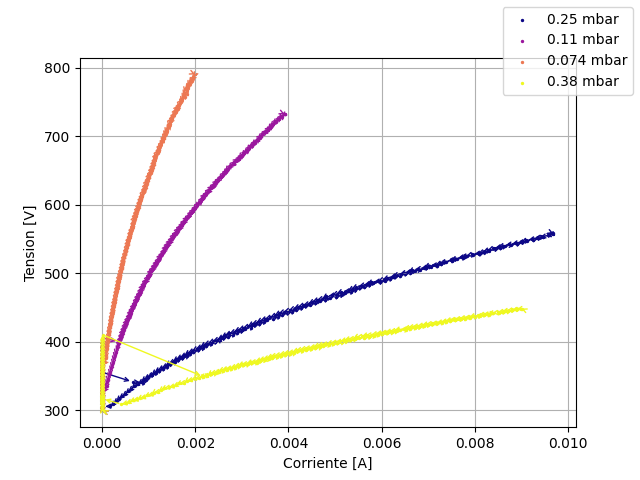
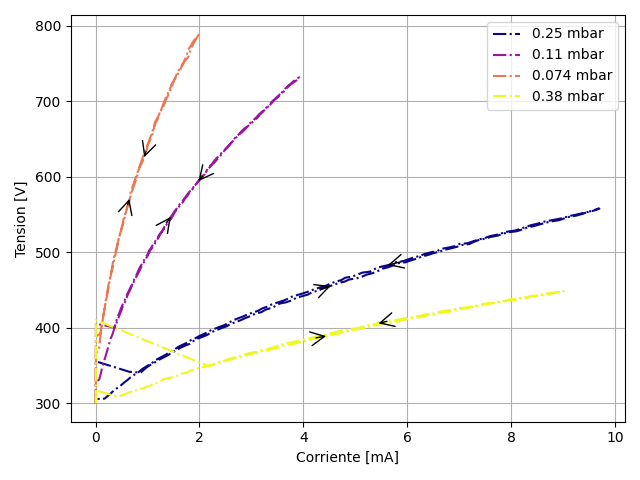
nueva imagen mas linda

diff --git a/glow/analisis_glow.py b/glow/analisis_glow.py
@@ -7,37 +7,45 @@ variables = Parser(configuration = 'glow').config()
 input_path = os.path.join(glob_path + os.path.normpath(variables['input']))
 output_path = os.path.join(glob_path + os.path.normpath(variables['output']))
 
+# ====================================================
+# Graficamos todas las mediciones juntas de histéresis
+# ====================================================
 
 # Ultima medicion efectuada
 num = 4
 
-# Graficamos todas las mediciones juntas
-cmap = plt.get_cmap('copper')
-# cmap = plt.get_cmap('seismic')
-# cmap = plt.get_cmap('hsv')
+# Graficamos todas las mediciones juntas de histéresis
+cmap = plt.get_cmap('plasma')
 cmap_values = np.linspace(0., 1., num)
 colors = cmap(cmap_values)
 colors_rgb = ['#{0:02x}{1:02x}{2:02x}'.format(int(255*a), int(255*b), int(255*c)) for a, b, c, _ in colors]
 
-fig, ax = plt.subplots(nrows = 1, ncols = 1)
+plt.figure()
+dic = {1:4,2:4,3:4, 4:4}
 for c, i in zip(colors_rgb, np.arange(1, num + 1 , 1)): # for i in range(1, num + 1):
     fname = os.path.join(input_path + os.path.normpath(f'/medicion_{i}.pkl'))
     datos_leidos = load_dict(fname = fname)
     pr = datos_leidos['presion']
-    ax.scatter(datos_leidos['corriente_t'], datos_leidos['tension_glow'], label = f'{pr} mbar', s = 2, color = c)
-    ini_flechas_x, ini_flechas_y = datos_leidos['corriente_t'], datos_leidos['tension_glow']
-    fin_flechas_x, fin_flechas_y = np.roll(datos_leidos['corriente_t'], -1), np.roll(datos_leidos['tension_glow'], -1)
+    corriente = 1000*datos_leidos['corriente_t']
+    plt.plot(corriente, datos_leidos['tension_glow'], '-.',label = f'{pr} mbar', color = c)
+    ini_flechas_x = [corriente[len(corriente)//dic[i]],corriente[len(corriente)*2//3]]
+    ini_flechas_y = [datos_leidos['tension_glow'][len(datos_leidos['tension_glow'])//dic[i]],datos_leidos['tension_glow'][len(datos_leidos['tension_glow'])*2//3]]
+    fin_flechas_x = [corriente[len(corriente)//dic[i] + 3],corriente[len(corriente)*2//3+3]]
+    fin_flechas_y = [datos_leidos['tension_glow'][len(datos_leidos['tension_glow'])//dic[i]+3],datos_leidos['tension_glow'][len(datos_leidos['tension_glow'])*2//3+3]]
     for X_f, Y_f, X_i, Y_i in zip(fin_flechas_x, fin_flechas_y, ini_flechas_x, ini_flechas_y):
-        ax.annotate(text = "",
-        xy = (X_f,Y_f),
+        plt.annotate(text = "",
+        xy = (X_f,Y_f), 
         xytext = (X_i,Y_i),
-        arrowprops = dict(arrowstyle = "->", color = c),
-        size = 10
+        arrowprops = dict(arrowstyle = "->"),#, color = c),
+        size = 25
         )
-ax.grid(visible = True)
-ax.set_xlabel('Corriente [A]')
-ax.set_ylabel('Tension [V]')
-fig.legend()
-fig.show()
-# fig.savefig(fname = os.path.join(output_path + os.path.normpath('/mediciones_VI_dia1.png')))
+plt.grid(visible = True)
+plt.xlabel('Corriente [mA]')
+plt.ylabel('Tension [V]')
+plt.legend(loc = 'best')
+plt.tight_layout()
+plt.show(block = False)
+# plt.savefig(fname = os.path.join(output_path + os.path.normpath('/mediciones_VI_dia1.png')))
 
+# ====================================================
+# ====================================================
